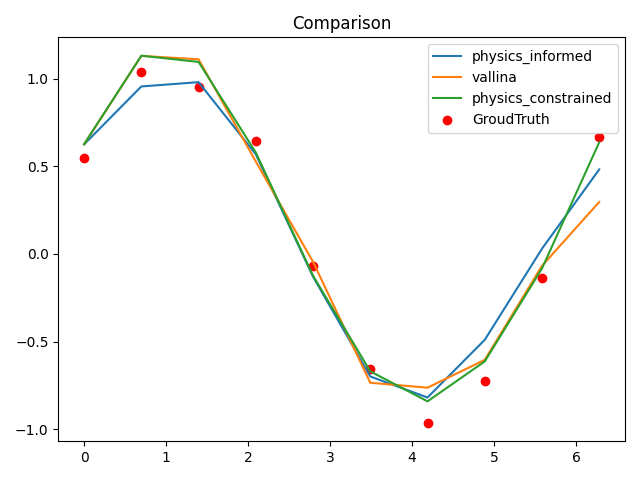
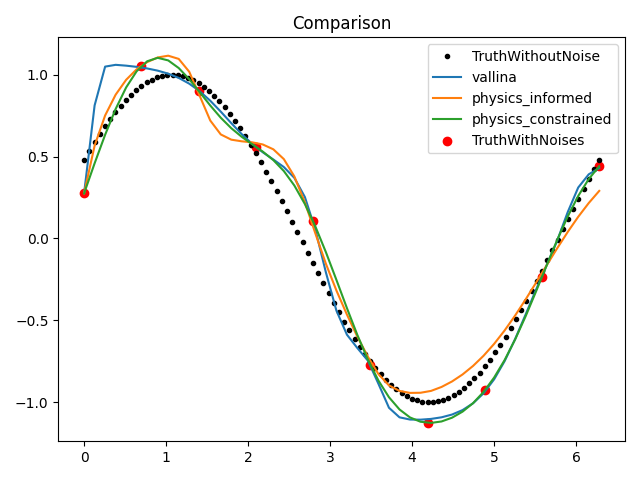
The first commit.

diff --git a/link_NN_Gaussian/main_train.py b/link_NN_Gaussian/main_train.py
@@ -1,9 +1,7 @@
+import matplotlib.pyplot as plt
+import numpy as np
 import torch
 from network import net_basic
-import numpy as np
-from tqdm import tqdm
-import matplotlib.pyplot as plt
-from dataset_gen_gaussian import gaussian_data_gen
 
 '''
     Here is a script referred to  
@@ -16,20 +14,21 @@ from dataset_gen_gaussian import gaussian_data_gen
 
 
 def main():
-    x, y = dataset_gen(num_points=10, noise=0.2)
-    loss_list = []
-    mode_list = ['physics_informed', 'vallina',  'physics_constrained']
+    x, y = dataset_gen(num_points=10, noise=0.15)
+    mode_list = ['vallina', 'physics_informed', 'physics_constrained']
+    loss_dic = {}
     for mode in mode_list:
-        print('\n\n' + '='*60 + '\n' + '\tMode: %s' % mode + '\n')
-        loss_list.append(single_train(x=x, y=y, mode=mode))
-    plot_loss(mode_list=mode_list, loss_array=np.array(loss_list))
-    x, y = dataset_gen(num_points=10, noise=0.2)
+        print('\n\n' + '=' * 60 + '\n' + '\tMode: %s' % mode + '\n')
+        loss_dic[mode] = single_train(x=x, y=y, mode=mode, width=10)
+    #
+    plot_loss(mode_list=mode_list, loss_dic=loss_dic)
+    #
     test(x=x, y=y, mode_list=mode_list)
 
 
-def single_train(x, y, num_epoch=20000, mode='physics_constrained'):
+def single_train(x, y, num_epoch=50000, mode='physics_constrained', width=10):
     # x, y = dataset_gen()
-    model = net_basic(mode=mode, width=10)
+    model = net_basic(mode=mode, width=width)
     optim = torch.optim.Adam(model.parameters())
     loss_operator = torch.nn.MSELoss()
     x_tensor, y_tensor = torch.from_numpy(x).float(), torch.from_numpy(y).float()
@@ -41,42 +40,54 @@ def single_train(x, y, num_epoch=20000, mode='physics_constrained'):
             loss = loss_operator(y_tensor, y_pre)
         else:
             y_pre, physics_item = model.forward_ddy(x_tensor)
-            loss = loss_operator(y_pre, y_tensor) + 1.0 * loss_operator(physics_item, torch.zeros_like(physics_item))
+            loss = loss_operator(y_pre, y_tensor) + \
+                   1.0 * loss_operator(physics_item, torch.zeros_like(physics_item))
         loss.backward()
         optim.step()
         if epoch % 100 == 0:
+            loss = loss_operator(y_pre, y_tensor)
             print('Epoch %d The current loss is %.3e %s' % (epoch, loss.item(), mode))
             loss_list.append([epoch, loss.item()])
     torch.save(model, f='%s.pt' % mode)
-    return loss_list
+    return np.array(loss_list)
 
 
-def dataset_gen(num_points=10, noise=0.2):
-    x = np.linspace(0, np.pi*2., num_points)
-    y = np.sin(x + 0.5) + np.random.random(num_points)*noise
+def dataset_gen(num_points=10, noise=0.05):
+    x = np.linspace(0, np.pi * 2., num_points)
+    y = data_function(x) + np.random.normal(size=num_points) * noise
     # x, y_list = gaussian_data_gen(num_samples=1, num_points=num_points)
     # y = y_list[0] + np.random.random(num_points)*noise
     return np.array(x[:, np.newaxis]), np.array(y[:, np.newaxis])
 
 
-def test(x, y, mode_list: list, ):
+def data_function(x):
+    return np.sin(x + 0.5)
+
+
+def test(x, y, mode_list: list, num_points=50):
     # x, y = dataset_gen()
+    xx = np.linspace(0, np.pi * 2., num_points).reshape(-1, 1)
     data_dic = {}
+    data_dic['TruthWithNoise'] = [x, y]
     for mode in mode_list:
         model = torch.load('%s.pt' % mode)
-        x_tensor, y_tensor = torch.from_numpy(x).float(), torch.from_numpy(y).float()
+        x_tensor = torch.from_numpy(xx).float()
         y_pre = model.forward(x_tensor).detach().numpy()
-        data_dic[mode] = [x, y, y_pre]
+        data_dic[mode] = [xx, data_function(xx), y_pre]
+    xx = np.linspace(0, np.pi * 2., 100)
+    plt.plot(xx, np.sin(xx + 0.5), 'k.', label='TruthWithoutNoise')
     plot_comparison(data_dic)
 
 
 def plot_comparison(data_dic):
     keys = list(data_dic.keys())
-    x, y = data_dic[keys[0]][0], data_dic[keys[0]][1]
-    num_point = len(x)
-    index = list(range(0, num_point, 20)) if num_point>20 else list(range(num_point))
-    plt.scatter(x[index].flatten(), y[index].flatten(), color='r', label='GroudTruth')
     for key in keys:
+        if key == 'TruthWithNoise':
+            x, y = data_dic[key][0], data_dic[key][1]
+            num_point = len(x)
+            index = list(range(0, num_point, 20)) if num_point > 20 else list(range(num_point))
+            plt.scatter(x[index].flatten(), y[index].flatten(), color='r', label='TruthWithNoises')
+            continue
         x, y_pre = data_dic[key][0], data_dic[key][2]
         plt.plot(x, y_pre, label=key)
     plt.legend()
@@ -85,10 +96,11 @@ def plot_comparison(data_dic):
     plt.show()
 
 
-def plot_loss(mode_list, loss_array):
-    n = len(mode_list)
-    for i in range(n):
-        plt.plot(loss_array[i][:, 0], loss_array[i][:, 1], label=mode_list[i])
+def plot_loss(mode_list, loss_dic: dict):
+    for mode in mode_list:
+        epoch = loss_dic[mode][:, 0]
+        loss = loss_dic[mode][:, 1]
+        plt.plot(epoch, loss, label=mode)
     plt.yscale('log')
     plt.legend()
     plt.tight_layout()
